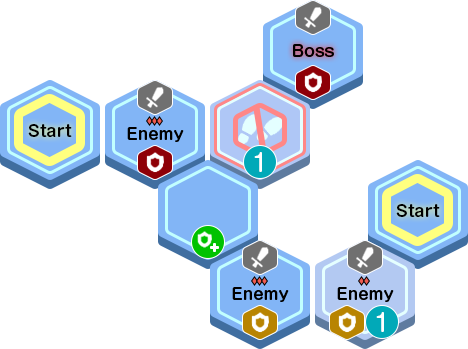
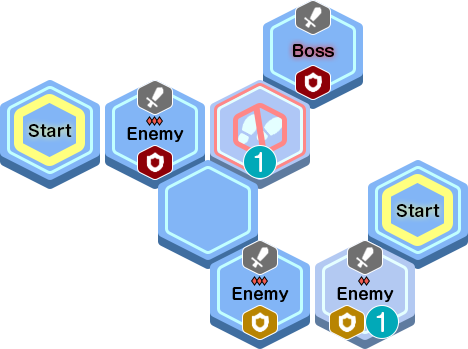
Check for actual spawn events for strategy objects
Credit to lonqie for figuring this one a while ago

Changed region(s): [[0.3889, 0.6304, 0.4786, 0.745]]

diff --git a/maputil.py b/maputil.py
@@ -4,7 +4,19 @@ from tilemap import BrokenTile, HideTile, HideTriggerTile, NormalTile, PortalEnt
 
 
 def get_strategies(map, data):
+    #get actual spawn events list to check against, some entities may be placed on the map but not actually spawned
+    spawned_entity_ids = []
+    for event in map['Events']:
+        for command in event['HexaCommands']:
+            if 'HexaCommandStrategySpawn' in command['$type']:
+                for spawn in command['StrategyEntityIds']:
+                    spawned_entity_ids.append(spawn)
+    spawned_entity_ids = set(spawned_entity_ids)
+
     for hexa_strategy in map['hexaStrageyList']:
+        if hexa_strategy['EntityId'] not in spawned_entity_ids:
+            print(f"Skipping entity {hexa_strategy['EntityId']} at {location} because it is never spawned")
+            continue
         location = (hexa_strategy['Location']['x'], hexa_strategy['Location']['y'], hexa_strategy['Location']['z'])
         yield location, data.campaign_strategy_objects[hexa_strategy['Id']]
 
